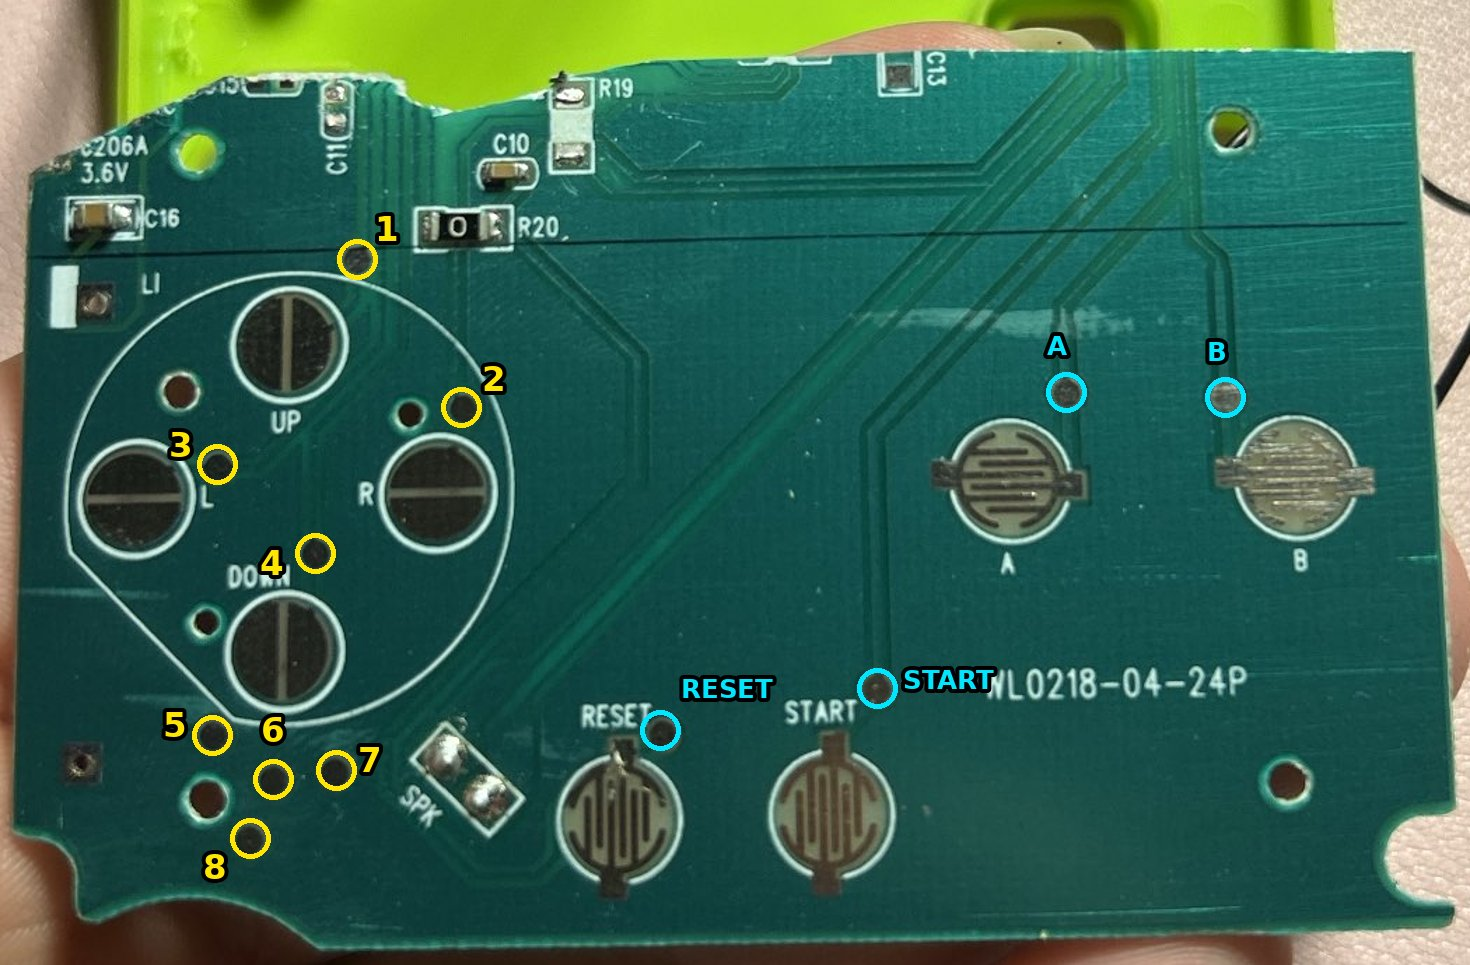
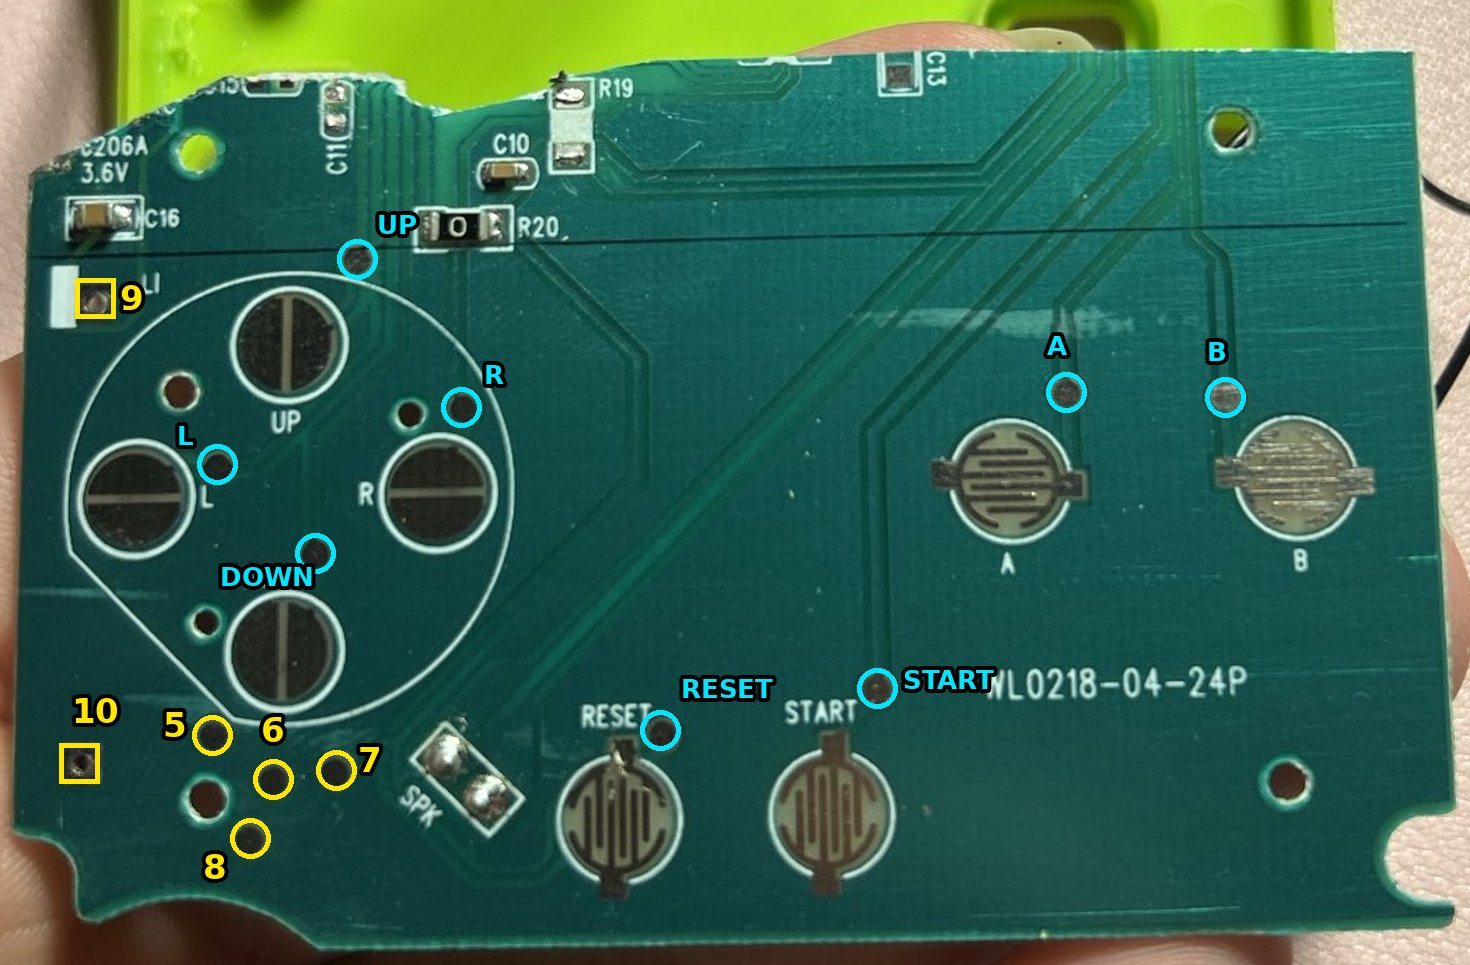
Retro Gamer: Lötpunkte fürs Steuerkreuz gefunden
Claude-Session: https://claude.ai/code/session_01X43J6db1y9pQVMFJCzA3Ld

diff --git a/Tamagotchi_Hardware_Cube.md b/Tamagotchi_Hardware_Cube.md
@@ -394,7 +394,7 @@ Die Nutzerin misst vorerst nicht. Passt der Retro Gamer nicht, kommt ein eigenes
   | START | unten | oben |
   | RESET | unten | oben |
 
-  Die Platine ist **einseitig**: Leiterbahnen und Lötpunkte nur auf der Vorderseite (Tastenseite), Rückseite blank mit ein paar Löchern. Für A, B, START und RESET gibt es je einen runden Kupferpunkt auf der eigenen Leitung (nach Foto, Leiterbahn sichtbar). Für das Steuerkreuz kommen acht kleine Punkte in Frage, nummeriert in [retro-gamer-messpunkte.jpg](retro-gamer-messpunkte.jpg). Nächste Messung: welcher Punkt mit der eigenen Hälfte von UP, DOWN, L und R piept, und im Ohm-Bereich, ob alle eigenen Hälften gegen die gemeinsame Leitung „unendlich“ zeigen.
+  Die Platine ist **einseitig**: Leiterbahnen und Lötpunkte nur auf der Vorderseite (Tastenseite), Rückseite blank mit ein paar Löchern. Für A, B, START und RESET gibt es je einen runden Kupferpunkt auf der eigenen Leitung (nach Foto, Leiterbahn sichtbar). Für das Steuerkreuz kommen acht kleine Punkte in Frage, nummeriert in [retro-gamer-messpunkte.jpg](retro-gamer-messpunkte.jpg). **Gemessen (23. November 2026, laut Nutzerin):** UP = Punkt 1, R = 2, L = 3, DOWN = 4. Damit hat jede Taste einen Lötpunkt (in der Bilddatei jetzt blau beschriftet). Die Ohm-Messung entfällt: Auf der Tastenplatine sind nur noch Kondensatoren (C10, C13, C16) und die Drahtbrücke R20 („0“ = 0 Ω) übrig, die keine Taste dauerhaft mit Minus verbinden können; beim Piepen war jeweils nur eine Hälfte mit der gemeinsamen Leitung verbunden. **Noch gesucht: ein Lötpunkt für die gemeinsame Leitung (GND).** Kandidaten 5–10 in der Bilddatei (gelb), gegen die linke Hälfte von A messen.
 - **Lautsprecher (Nachtrag 23. November 2026):** Der Waveshare-Lautsprecher passt nicht an die Stelle des alten. Der alte ist mit dem Gehäuse verschmolzen und lässt sich nicht herausnehmen. Wird **als Letztes** entschieden. Möglichkeiten: den alten drin lassen und über das Steckerkabel des Waveshare-Lautsprechers anschließen (Lautstärke in der Software begrenzen, 0,25 W), oder den Waveshare-Lautsprecher an einer anderen Stelle unterbringen.
 - **Noch offen am Retro Gamer:** (1) Kante glatt feilen. (2) Tasten mit dem Multimeter prüfen (Piepen gemeinsame Leitung, Ohm-Bereich eigene Leitungen). (3) Lautsprecher (als Letztes, siehe oben). (4) MCP23017 verdrahten: Lötpunkte an der Tastenplatine festlegen, Platz für das Modul suchen. (5) Öffnung für USB-C. (6) Stromversorgung: Batteriedrähte → Pololu S9V11F5 → Diode 1N5819 → 5 V des Boards. (7) Prüfen, ob die Gehäusehälften schließen.
 - Das Waveshare-Board liegt mit seiner Platine dort, wo jetzt die obere Hälfte der grünen Platine ist. Vermutlich muss die grüne Platine oberhalb der Tasten abgetrennt werden (Idee „Tastenplatine“). Vorher die Leitungen der Tasten mit dem Multimeter prüfen.
